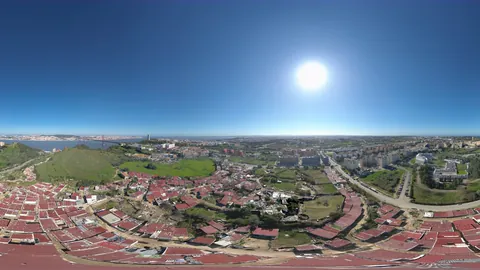
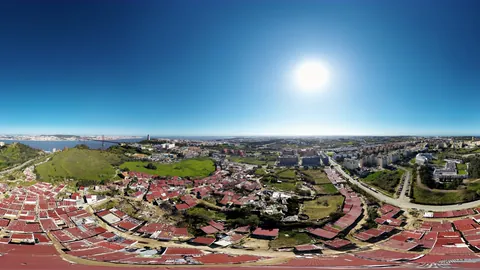
Olho de Águia com o LUT da FAUL: cor e contraste das fotos do drone
A fotografia 360 do Olho de Águia passa a ter a cor do LUT HH "1-Basic"
(HLG para Rec. 709), o mesmo dos vídeos da visita da FAUL.

- O EXR linear é posto como o pacote pede (HLG, cores BT.2020), com
  +1,5 stops e cor x1,5 antes do LUT.
- A saída é convertida do ecrã de vídeo (gama 2,4) para a web.
- Pontos de negro e de branco acertados.

Conferido contra as fotografias do próprio drone, em seis vistas:
contraste 1,01x e cor 0,98x os da câmara. O EXR foi conferido contra os
RAW: a luz coincide a menos de 8 %.

A primeira tentativa, só com o LUT e a exposição, ficava desbotada
(0,62x a cor).

A cúpula (ceu-olho-de-aguia.jpg) fica igual, byte a byte. A miniatura
do marcador foi refeita.

diff --git a/scripts/assar-ceu.py b/scripts/assar-ceu.py
@@ -1,6 +1,6 @@
 # -*- coding: utf-8 -*-
 """
-Assa a panoramica do Olho de Aguia com os acertos ja embutidos.
+Assa a panoramica do Olho de Aguia com a cor ja embutida.
 
 A vista do alto do bairro esta no site em dois ficheiros:
 
@@ -8,45 +8,77 @@ A vista do alto do bairro esta no site em dois ficheiros:
     este guiao escreve.
   - public/ceu-olho-de-aguia.jpg - o ceu que envolve o bairro (a cupula).
     Este guiao NAO lhe toca. E a imagem tal como estava antes de
-    2026-11-12, feita com as contas antigas (ver mais abaixo), e fica
-    assim por pedido: "A cupula nao deve mudar de cores, apenas o olho de
-    aguia". A cor dela foi afinada a olho contra o bairro, com essa imagem
-    (ver AJUSTES_PADRAO em public/ceu-fotografia.mjs).
+    2026-11-12, feita com as contas antigas, e fica assim por pedido: "A
+    cupula nao deve mudar de cores, apenas o olho de aguia". A cor dela foi
+    afinada a olho contra o bairro, com essa imagem (ver AJUSTES_PADRAO em
+    public/ceu-fotografia.mjs).
 
 As contas sao feitas uma so vez, a partir do original de doze mil pontos
 de largura e em virgula flutuante, e o resultado e guardado numa imagem
-so. Chega ao visitante ja pronto: sem bandas, sem contas a fazer, e com os
-altos a encostar ao branco em vez de chapar.
+so. Chega ao visitante ja pronto: sem bandas e sem contas a fazer.
 
 O original esta em luz linear
 -----------------------------
 
-O ficheiro .exr guarda a luz tal como ela e - "linear", diz o proprio
-ficheiro -, e nao ja preparada para o ecra, como um JPG. Ate 2026-11-12
-este guiao tratava-o como se fosse um JPG: passava-o outra vez para luz
-linear, o que e fazer a mesma conta duas vezes. A imagem ficava muito
-mais escura e muito mais carregada de cor do que a fotografia, e para a
-trazer de volta era preciso uma exposicao de quase cinco vezes e um
-contraste forte por cima. Dai o ceu azul-marinho em cima, a faixa ciano
-junto ao horizonte, o sol num disco enorme e os telhados cor de sangue.
+O ficheiro .exr guarda a luz tal como ela e - "linear" -, e nao ja
+preparada para o ecra, como um JPG. Foi montado no Hugin a partir das
+fotografias do drone (Brutos\\JPG), e nao diz que cores usa, o que no
+formato quer dizer as cores normais de ecra (as do sRGB e da alta
+definicao, Rec. 709). Ate 2026-11-12 este guiao tratava-o como se fosse
+um JPG e passava-o duas vezes para luz linear (ceu azul-marinho, telhados
+cor de sangue). Ver o historico do git para as versoes anteriores.
 
-Agora a luz entra como esta, passa uma unica vez para o ecra, e os
-acertos por cima sao poucos: o equilibrio de cor do original ja estava
-certo (as estradas e o betao dao cinzento, a menos de 2 % de diferenca
-entre canais), so lhe faltava um pouco de corpo.
+A cor: o LUT "1-Basic" da HH (desde 2026-11-17)
+-----------------------------------------------
 
-A ordem das contas:
+A cor da paragem e a do LUT "1-Basic" do pacote HH Cinematic Sony (pasta
+HLG), o mesmo que se usou nos videos da visita da FAUL. Um LUT destes foi
+feito para video filmado em HLG com as cores largas do BT.2020 (o "Read
+me" do pacote: entrada "Rec. 2020 HLG", saida "Rec. 709"; na camara,
+HLG3 com Color Mode BT2020). A fotografia nao foi filmada assim, por isso
+primeiro e posta como se tivesse sido, e so depois passa pelo LUT:
 
-  - Exposicao em luz linear, que e onde ela e honesta, com um joelho: ate
-    JOELHO nada muda, e dai para cima os valores vao encostando ao branco
-    sem nunca la chegar de repente.
-  - A passagem para o ecra (sRGB), uma vez so.
-  - Gama, contraste e cor vem a seguir, com as mesmas formulas do editor
-    do menu de desenvolvedor.
+  1. Das cores de ecra (709) para as cores largas (BT.2020), em luz
+     linear. E uma conta de matriz: nao se perde nada.
+  2. A cor (COR). Sozinho, o LUT deixava esta fotografia com 6/10 da cor
+     da propria fotografia do drone: foi pensado para a cor de uma camara
+     Sony, mais carregada do que a luz medida. A cor sobe aqui, em luz
+     linear e a volta do cinzento de cada ponto, antes do LUT, como se a
+     camara a tivesse dado.
+  3. A exposicao. O branco da fotografia vai para o branco de referencia
+     do HLG (75 %, ITU-R BT.2408), que e onde uma camara o poria, e dai
+     sobe-se EXPOSICAO stops, em luz linear, que e onde a exposicao e
+     honesta. Sem esta subida a imagem sai muito escura (o cinzento medio
+     a 18 % em vez de 41 %): o LUT foi feito para video exposto mais claro
+     do que o normal - o proprio pacote manda filmar com +0,3 a +0,7 - e
+     so poe o cinzento medio no sitio quando ele chega ao HLG a 55 %. Nos
+     videos da FAUL foi o mesmo (+0,15 a +1,2 stops).
+  4. A curva HLG (ITU-R BT.2100), com um joelho: acima de JOELHO os altos
+     encostam a 1 em vez de cortarem a seco.
+  5. O LUT, com interpolacao tetraedrica (a mesma do ffmpeg, com que os
+     videos foram feitos).
+  6. Do ecra de video para o ecra da web. O LUT entrega a imagem para um
+     ecra de video (Rec. 709 / ITU-R BT.1886, gama 2,4), que mostra as
+     sombras mais fundas do que um navegador (sRGB). Passar os numeros tal
+     e qual deixava as sombras levantadas, como um veu; aqui converte-se
+     de um para o outro.
+  7. Os pontos de negro e de branco (NEGRO, BRANCO): o mais claro que o
+     LUT da fica pouco abaixo do branco, e o branco passa a ser BRANCO.
+     Acima de 94 % os altos encostam ao branco devagar, como nos videos.
+
+Os numeros foram escolhidos contra as fotografias do proprio drone (os JPG
+de Brutos\\JPG, na exposicao do meio), projectando a panoramica em seis
+das vistas delas: cinzentos, claros e escuros no mesmo sitio, e contraste
+e cor a 0,97-0,98 das da camara. O EXR, por sua vez, foi conferido contra
+os RAW (Brutos\\RAW): a luz dele e a do sensor, a menos de 8 %.
+
+O JPG leva um pouco de ruido por baixo do ultimo degrau (sempre o mesmo)
+para os degrades do ceu nao fazerem bandas.
 
 Como usar, a partir da raiz do projecto:
 
-    python scripts/assar-ceu.py
+    python scripts/assar-ceu.py              # escreve public/olho-de-aguia-360.jpg
+    python scripts/assar-ceu.py outro.jpg    # escreve noutro sitio, para comparar
 
 Os numeros vivem em ACERTOS.
 """
@@ -62,7 +94,9 @@ Image.MAX_IMAGE_PIXELS = None
 
 # O original, em virgula flutuante e luz linear, com 12272 x 6136 pontos.
 ORIGINAL = r"C:\Users\malve\Videos\Malha Viva\Imagens\HDRi\HDRi - Preenchimento Generativo.exr"
-# Só a paragem do Olho de Aguia; o ceu do bairro fica como esta.
+# O LUT. Fica fora do repositorio: e de um pacote comprado, nao se publica.
+LUT_HH = r"C:\Users\malve\Videos\Malha Viva\Vídeo\Cor\Correção\HH-CINEMATIC-SONY-LUT-PACK\HLG\1-Basic LUT.cube"
+# So a paragem do Olho de Aguia; o ceu do bairro fica como esta.
 SAIDA = os.path.join('public', 'olho-de-aguia-360.jpg')
 
 # Largura da imagem a escrever. E a largura com que o site trabalha o ceu
@@ -70,18 +104,34 @@ SAIDA = os.path.join('public', 'olho-de-aguia-360.jpg')
 # de mais na ligacao para nao se ver diferenca nenhuma no ecra.
 LARGURA = 4096
 
-# Os acertos por cima da fotografia. Sao pequenos de proposito: a cor do
-# original ja esta certa, e isto so lhe da um pouco mais de corpo.
 ACERTOS = {
-    'exposicao': 1.1,
-    'gama': 1.0,
-    'contraste': 0.9,
-    'saturacao': 1.1,
+    # Quanto sobe a cor, em luz linear, antes do LUT (ponto 2 acima).
+    'cor': 1.5,
+    # Stops a mais, em luz linear, antes do LUT (ponto 3).
+    'exposicao': 1.5,
+    # Codigo HLG a partir do qual os altos encostam a 1 (ponto 4).
+    'joelho': 0.90,
+    # Pontos de negro e de branco, ja no ecra da web (ponto 7).
+    'negro': 0.01,
+    'branco': 0.95,
 }
 
-# A partir de que ponto os altos comecam a encostar ao branco, em luz
-# linear e ja depois da exposicao.
-JOELHO = 0.8
+# O peso de cada cor primaria na luz, nas cores largas (ITU-R BT.2020).
+PESOS_2020 = np.array([0.2627, 0.6780, 0.0593], dtype=np.float32)
+
+# Das cores de ecra (Rec. 709) para as do BT.2020, em luz linear (ITU-R BT.2087).
+DE_709_PARA_2020 = np.array([
+    [0.6274040, 0.3292820, 0.0433136],
+    [0.0690970, 0.9195400, 0.0113612],
+    [0.0163916, 0.0880132, 0.8955950],
+], dtype=np.float32)
+
+# A curva HLG (ITU-R BT.2100).
+HLG_A = 0.17883277
+HLG_B = 1.0 - 4.0 * HLG_A
+HLG_C = 0.5 - HLG_A * np.log(4.0 * HLG_A)
+# A luz que o HLG poe a 75 %: o branco de referencia (ITU-R BT.2408).
+BRANCO_HLG = (np.exp((0.75 - HLG_C) / HLG_A) + HLG_B) / 12.0
 
 
 def achar_ffmpeg():
@@ -99,25 +149,10 @@ def achar_ffmpeg():
     sys.exit('Nao encontrei o ffmpeg. Instale-o ou diga onde esta com FFMPEG=...')
 
 
-def para_ecra(x):
-    x = np.clip(x, 0.0, 1.0)
-    return np.where(x <= 0.0031308, x * 12.92, 1.055 * np.power(x, 1 / 2.4) - 0.055)
-
-
-def encostar_ao_branco(y, joelho=JOELHO):
-    """Deixa os valores baixos como estao e curva os altos para o branco."""
-    if joelho >= 1.0:
-        return np.clip(y, 0.0, 1.0)
-    alto = y > joelho
-    saida = np.array(y, dtype=np.float64)
-    margem = 1.0 - joelho
-    saida[alto] = joelho + margem * (1.0 - np.exp(-(y[alto] - joelho) / margem))
-    return np.clip(saida, 0.0, 1.0)
-
-
 def trazer_original(largura):
     """
-    Traz o original para virgula flutuante, no tamanho pedido.
+    Traz o original para virgula flutuante, no tamanho pedido (reduzido em
+    luz linear).
 
     Sai em pontos crus, plano a plano (verde, azul, vermelho) e de cima para
     baixo. Antes passava por um ficheiro PFM, mas esse formato guarda as
@@ -133,33 +168,103 @@ def trazer_original(largura):
     ], check=True, stdout=subprocess.PIPE).stdout
     planos = np.frombuffer(crus, dtype='<f4').reshape(3, altura, largura)
     verde, azul, vermelho = planos
-    return np.stack([vermelho, verde, azul], axis=-1).astype(np.float64)
+    return np.stack([vermelho, verde, azul], axis=-1).astype(np.float32)
 
 
-def tratar(linear, acertos=ACERTOS, joelho=JOELHO):
-    """Da luz linear ao ecra, uma vez so, com os acertos por cima."""
-    # 1. Exposicao em luz linear, com os altos a encostar ao branco, e a
-    #    passagem para o ecra.
-    x = np.clip(linear, 0.0, None)
-    x = para_ecra(encostar_ao_branco(x * acertos['exposicao'], joelho))
+def ler_cube(caminho):
+    """Le um LUT .cube 3D. Devolve [azul, verde, vermelho, canal]: no .cube o vermelho varia mais depressa."""
+    tamanho, linhas = None, []
+    with open(caminho, encoding='utf-8', errors='replace') as f:
+        for linha in f:
+            s = linha.strip()
+            if not s or s[0] == '#':
+                continue
+            if s.startswith('LUT_3D_SIZE'):
+                tamanho = int(s.split()[1])
+            elif s.startswith('DOMAIN_MIN') or s.startswith('DOMAIN_MAX'):
+                valores = [float(v) for v in s.split()[1:]]
+                esperado = [0.0] * 3 if s.startswith('DOMAIN_MIN') else [1.0] * 3
+                if valores != esperado:
+                    sys.exit('O LUT tem um dominio que este guiao nao conhece: ' + s)
+            elif s[0].isalpha():
+                continue
+            else:
+                linhas.append([float(v) for v in s.split()])
+    lut = np.asarray(linhas, dtype=np.float32)
+    if tamanho is None or lut.shape != (tamanho ** 3, 3):
+        sys.exit('O LUT nao tem o tamanho que diz ter.')
+    return lut.reshape(tamanho, tamanho, tamanho, 3)
 
-    # 2. Gama, em espaco de ecra.
-    gama = acertos['gama']
-    if abs(gama - 1.0) > 1e-4:
-        x = np.power(x, 1.0 / gama)
 
-    # 3. Contraste, com a mesma curva em S do editor.
-    k = acertos['contraste']
-    if k > 1e-4:
-        x = 0.5 + np.tanh(k * (x - 0.5)) / np.tanh(k / 2) * 0.5
+def lut_tetraedrico(rgb, lut):
+    """Interpolacao tetraedrica, a mesma do lut3d do ffmpeg. rgb [..., 3] entre 0 e 1."""
+    n = lut.shape[0]
+    x = np.clip(rgb, 0.0, 1.0) * (n - 1)
+    i0 = np.minimum(x.astype(np.int32), n - 2)
+    f = (x - i0).astype(np.float32)
+    r0, g0, b0 = i0[..., 0], i0[..., 1], i0[..., 2]
+    fr, fg, fb = f[..., 0:1], f[..., 1:2], f[..., 2:3]
 
-    # 4. Cor, sempre por ultimo.
-    sat = acertos['saturacao']
-    if abs(sat - 1.0) > 1e-4:
-        cinzento = (0.299 * x[..., 0] + 0.587 * x[..., 1] + 0.114 * x[..., 2])[..., None]
-        x = cinzento + (x - cinzento) * sat
+    def canto(dr, dg, db):
+        return lut[b0 + db, g0 + dg, r0 + dr]
 
-    return np.clip(x, 0.0, 1.0)
+    c000, c111 = canto(0, 0, 0), canto(1, 1, 1)
+    c100, c010, c001 = canto(1, 0, 0), canto(0, 1, 0), canto(0, 0, 1)
+    c110, c101, c011 = canto(1, 1, 0), canto(1, 0, 1), canto(0, 1, 1)
+    rg, gb, rb, bg, br = fr > fg, fg > fb, fr > fb, fb > fg, fb > fr
+    casos = [
+        rg & gb, rg & ~gb & rb, rg & ~gb & ~rb,
+        ~rg & bg, ~rg & ~bg & br, ~rg & ~bg & ~br,
+    ]
+    valores = [
+        (1 - fr) * c000 + (fr - fg) * c100 + (fg - fb) * c110 + fb * c111,
+        (1 - fr) * c000 + (fr - fb) * c100 + (fb - fg) * c101 + fg * c111,
+        (1 - fb) * c000 + (fb - fr) * c001 + (fr - fg) * c101 + fg * c111,
+        (1 - fb) * c000 + (fb - fg) * c001 + (fg - fr) * c011 + fr * c111,
+        (1 - fg) * c000 + (fg - fb) * c010 + (fb - fr) * c011 + fr * c111,
+        (1 - fg) * c000 + (fg - fr) * c010 + (fr - fb) * c110 + fb * c111,
+    ]
+    return np.select([np.broadcast_to(m, valores[0].shape) for m in casos], valores).astype(np.float32)
+
+
+def para_hlg(luz):
+    """A curva HLG (BT.2100): luz linear da cena (0 a 1) para o sinal (0 a 1)."""
+    luz = np.clip(luz, 0.0, None)
+    baixo = np.sqrt(3.0 * luz)
+    alto = HLG_A * np.log(np.maximum(12.0 * luz - HLG_B, 1e-9)) + HLG_C
+    return np.where(luz <= 1.0 / 12.0, baixo, alto).astype(np.float32)
+
+
+def do_video_para_a_web(x):
+    """Ponto 6: de Rec. 709 visto num ecra de video (BT.1886, gama 2,4) para sRGB."""
+    luz = np.power(np.clip(x, 0.0, 1.0), 2.4)
+    return np.where(luz <= 0.0031308, 12.92 * luz, 1.055 * np.power(luz, 1 / 2.4) - 0.055)
+
+
+def como_se_fosse_hlg(linear, acertos=ACERTOS):
+    """Pontos 1 a 4: da luz linear (709) ao sinal que o LUT espera (HLG, BT.2020)."""
+    largas = np.clip(linear, 0.0, None) @ DE_709_PARA_2020.T
+    cinzento = (largas @ PESOS_2020)[..., None]
+    largas = np.clip(cinzento + (largas - cinzento) * acertos['cor'], 0.0, None)
+    sinal = para_hlg(largas * (BRANCO_HLG * 2.0 ** acertos['exposicao']))
+    k = acertos['joelho']
+    if k < 1.0:
+        sinal = np.where(sinal > k, k + (1 - k) * np.tanh((sinal - k) / (1 - k)), sinal)
+    return sinal.astype(np.float32)
+
+
+def tratar(linear, lut, acertos=ACERTOS, bloco=256):
+    """Da luz linear ao ecra, com o LUT. Aos bocados, para caber na memoria."""
+    saida = np.empty_like(linear, dtype=np.float32)
+    negro, branco = acertos['negro'], acertos['branco']
+    for i in range(0, linear.shape[0], bloco):
+        x = lut_tetraedrico(como_se_fosse_hlg(linear[i:i + bloco], acertos), lut)
+        x = do_video_para_a_web(x)
+        # Ponto 7: os pontos de negro e de branco, e os altos a encostar ao branco devagar.
+        x = (x - negro) / (branco - negro)
+        x = np.where(x > 0.94, 0.94 + 0.06 * np.tanh((x - 0.94) / 0.06), x)
+        saida[i:i + bloco] = np.clip(x, 0.0, 1.0)
+    return saida
 
 
 def confirmar_que_esta_direita(imagem):
@@ -172,20 +277,25 @@ def confirmar_que_esta_direita(imagem):
 
 
 def escrever(imagem, caminho, qualidade=88):
-    pontos = np.rint(imagem * 255.0).astype(np.uint8)
+    # Ruido triangular de um degrau por baixo do arredondamento, sempre o
+    # mesmo (semente fixa), para os degrades nao fazerem bandas.
+    rng = np.random.default_rng(2026)
+    ruido = rng.random(imagem.shape, dtype=np.float32) + rng.random(imagem.shape, dtype=np.float32) - 1.0
+    pontos = np.clip(np.rint(imagem * 255.0 + ruido), 0, 255).astype(np.uint8)
     Image.fromarray(pontos, 'RGB').save(caminho, quality=qualidade, subsampling=0, optimize=True)
 
 
 def main():
+    saida = sys.argv[1] if len(sys.argv) > 1 else SAIDA
     print('A trazer o original a %d pontos de largura...' % LARGURA)
     imagem = trazer_original(LARGURA)
     confirmar_que_esta_direita(imagem)
-    print('A aplicar os acertos...')
-    tratada = tratar(imagem)
-    print('A escrever %s...' % SAIDA)
-    escrever(tratada, SAIDA)
-    tamanho = os.path.getsize(SAIDA) / (1024 * 1024)
-    print('Pronto: %s (%.1f MB)' % (SAIDA, tamanho))
+    print('A aplicar o LUT (%s)...' % os.path.basename(LUT_HH))
+    tratada = tratar(imagem, ler_cube(LUT_HH))
+    print('A escrever %s...' % saida)
+    escrever(tratada, saida)
+    tamanho = os.path.getsize(saida) / (1024 * 1024)
+    print('Pronto: %s (%.1f MB)' % (saida, tamanho))
 
 
 if __name__ == '__main__':
